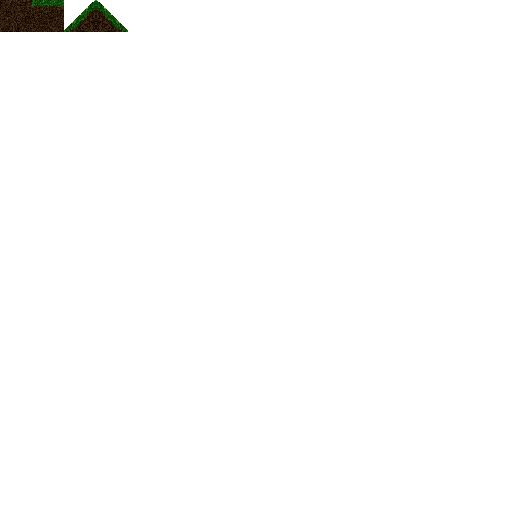
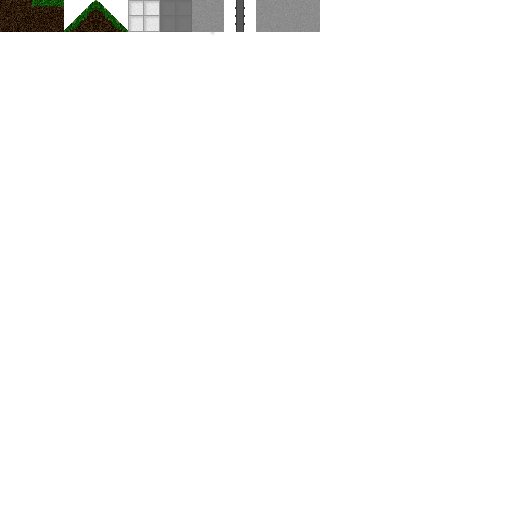
Added player graphics

Changed region(s): [[0.25, 0.0, 0.625, 0.0625]]

diff --git a/js/main.js b/js/main.js
@@ -19,6 +19,14 @@ var resources = [{
     type: "image",
     src: "img/bullet.png"
 }, {
+    name: "scientist",
+    type: "image",
+    src: "img/scientist.png"
+}, {
+    name: "scientist_arm",
+    type: "image",
+    src: "img/scientist_arm.png"
+}, {
     name: "level1",
     type: "tmx",
     src: "data/level1.tmx"
@@ -46,8 +54,8 @@ var game = {
 
         me.input.bindKey(me.input.KEY.A, 'left');
         me.input.bindKey(me.input.KEY.D, 'right');
-        me.input.bindKey(me.input.KEY.W, 'jump');
-        me.input.bindKey(me.input.KEY.SPACE, 'jump');
+        me.input.bindKey(me.input.KEY.W, 'jump', true);
+        me.input.bindKey(me.input.KEY.SPACE, 'jump', true);
         me.input.bindKey(me.input.KEY.X, 'shoot', true);
 
         try { me.input.registerMouseEvent(); } catch(e) {}
@@ -68,15 +76,19 @@ var GameScreen = me.ScreenObject.extend({
 
 var PlayerEntity = me.ObjectEntity.extend({
     init: function(x, y, settings) {
-        settings.image = 'null';
-        this.parent(x, y, settings);
+        settings.image = 'scientist';
+        settings.spritewidth = 24;
+        this.armImage = me.loader.getImage('scientist_arm');
 
-        this.width = settings.width;
-        this.height = settings.height;
+        this.parent(x, y, settings);
 
         this.collidable = true;
 
-        this.setVelocity(7, 17);
+        this.setVelocity(4, 12);
+        this.accel = new me.Vector2d(0.7, 10);
+
+        this.animationspeed = me.sys.fps / 16;
+
         this.updateColRect(0, this.width, 0, this.height);
 
         me.game.viewport.follow(this.pos, me.game.viewport.AXIS.BOTH);
@@ -109,6 +121,12 @@ var PlayerEntity = me.ObjectEntity.extend({
 
         this.updateMovement();
 
+        if(this.vel.x === 0) {
+            this.setAnimationFrame(0);
+        } else {
+            this.parent();
+        }
+
         return true;
     },
 
@@ -120,14 +138,9 @@ var PlayerEntity = me.ObjectEntity.extend({
         var x = ~~(this.pos.x - this.vp.pos.x),
             y = ~~(this.pos.y - this.vp.pos.y);
 
-        ctx.fillStyle = '#000';
-        ctx.fillRect(x, y,
-            this.width, this.height);
-
-        ctx.translate(x + 16, y + 16);
-        ctx.fillStyle = '#fff';
-        ctx.rotate(this.aimAngle);
-        ctx.fillRect(-4, -8, 32, 16);
+        ctx.translate(x + 4, y + 24);
+        ctx.rotate(this.aimAngle - Math.PI / 2);
+        ctx.drawImage(this.armImage, -2, -2);
 
         ctx.restore();
     },
@@ -135,6 +148,7 @@ var PlayerEntity = me.ObjectEntity.extend({
     doStop: function() {
         if(this.vel.x !== 0) {
             this.vel.x -= this.accel.x * me.timer.tick * this.vel.x > 0 ? 1 : -1;
+            if(Math.abs(this.vel.x) <= 1) this.vel.x = 0;
         }
     }
 });
